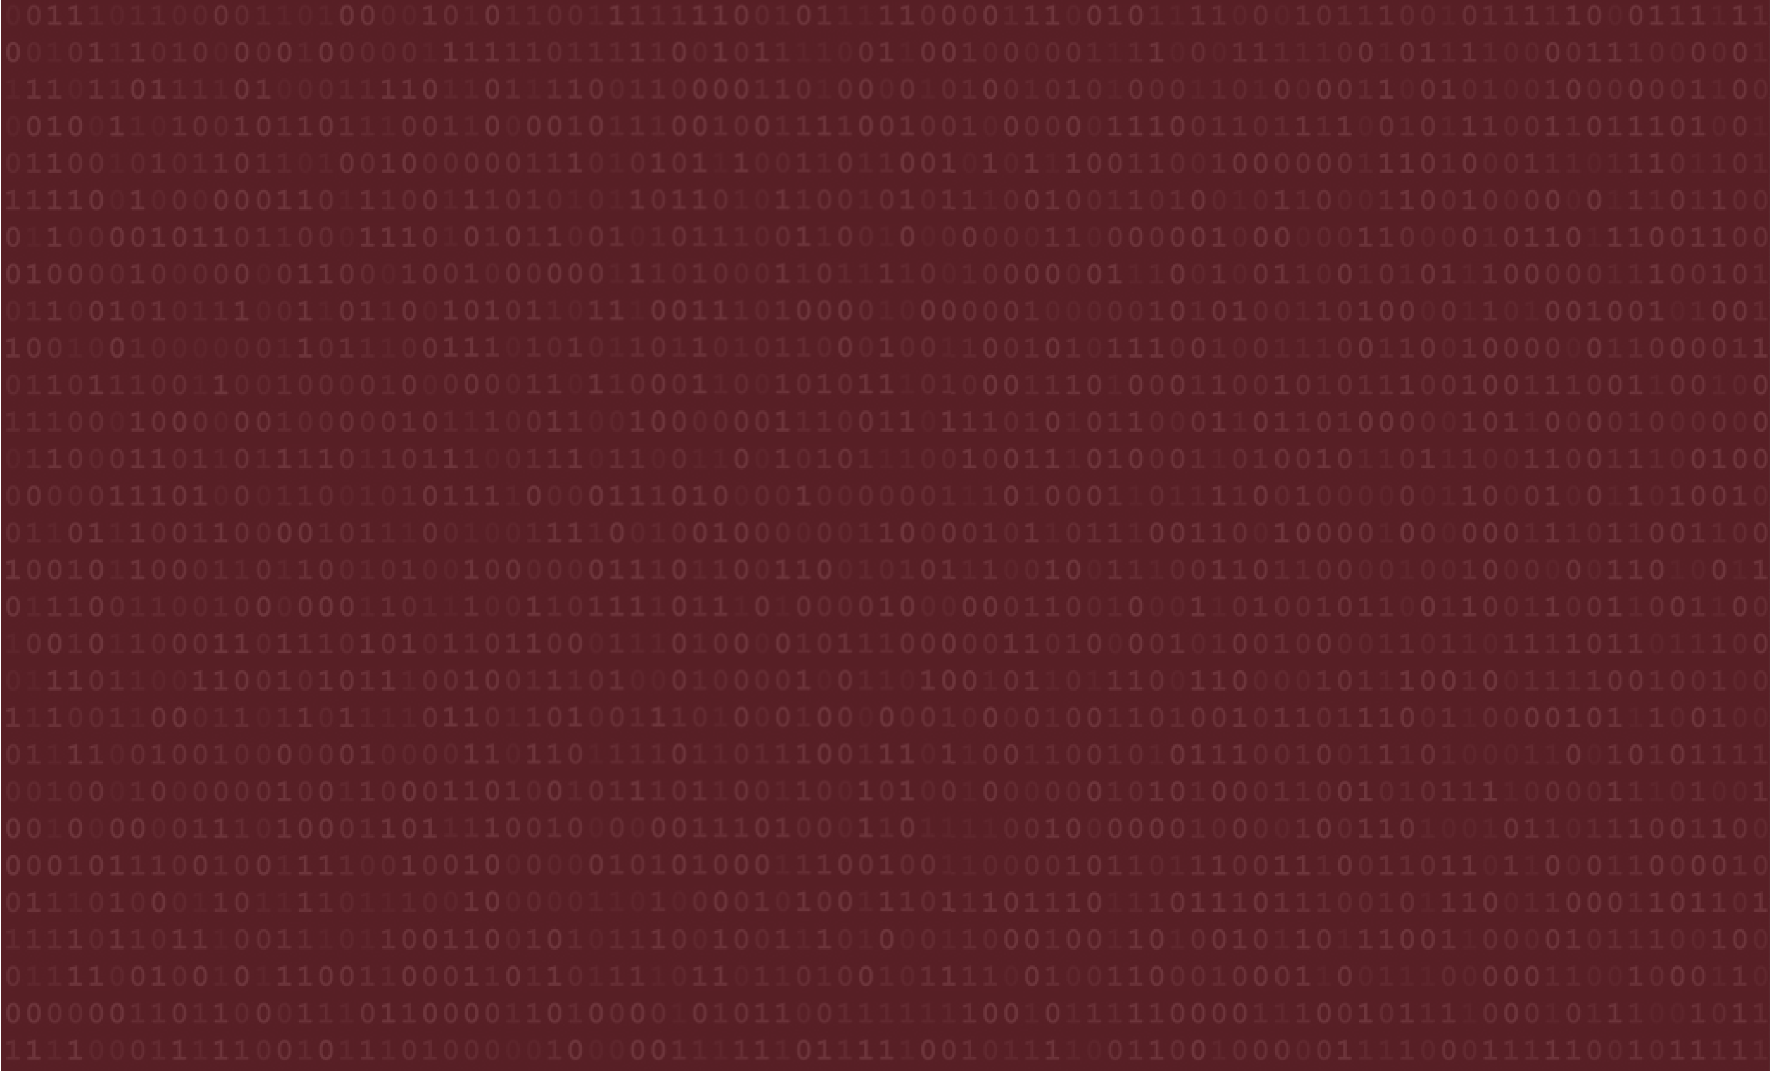
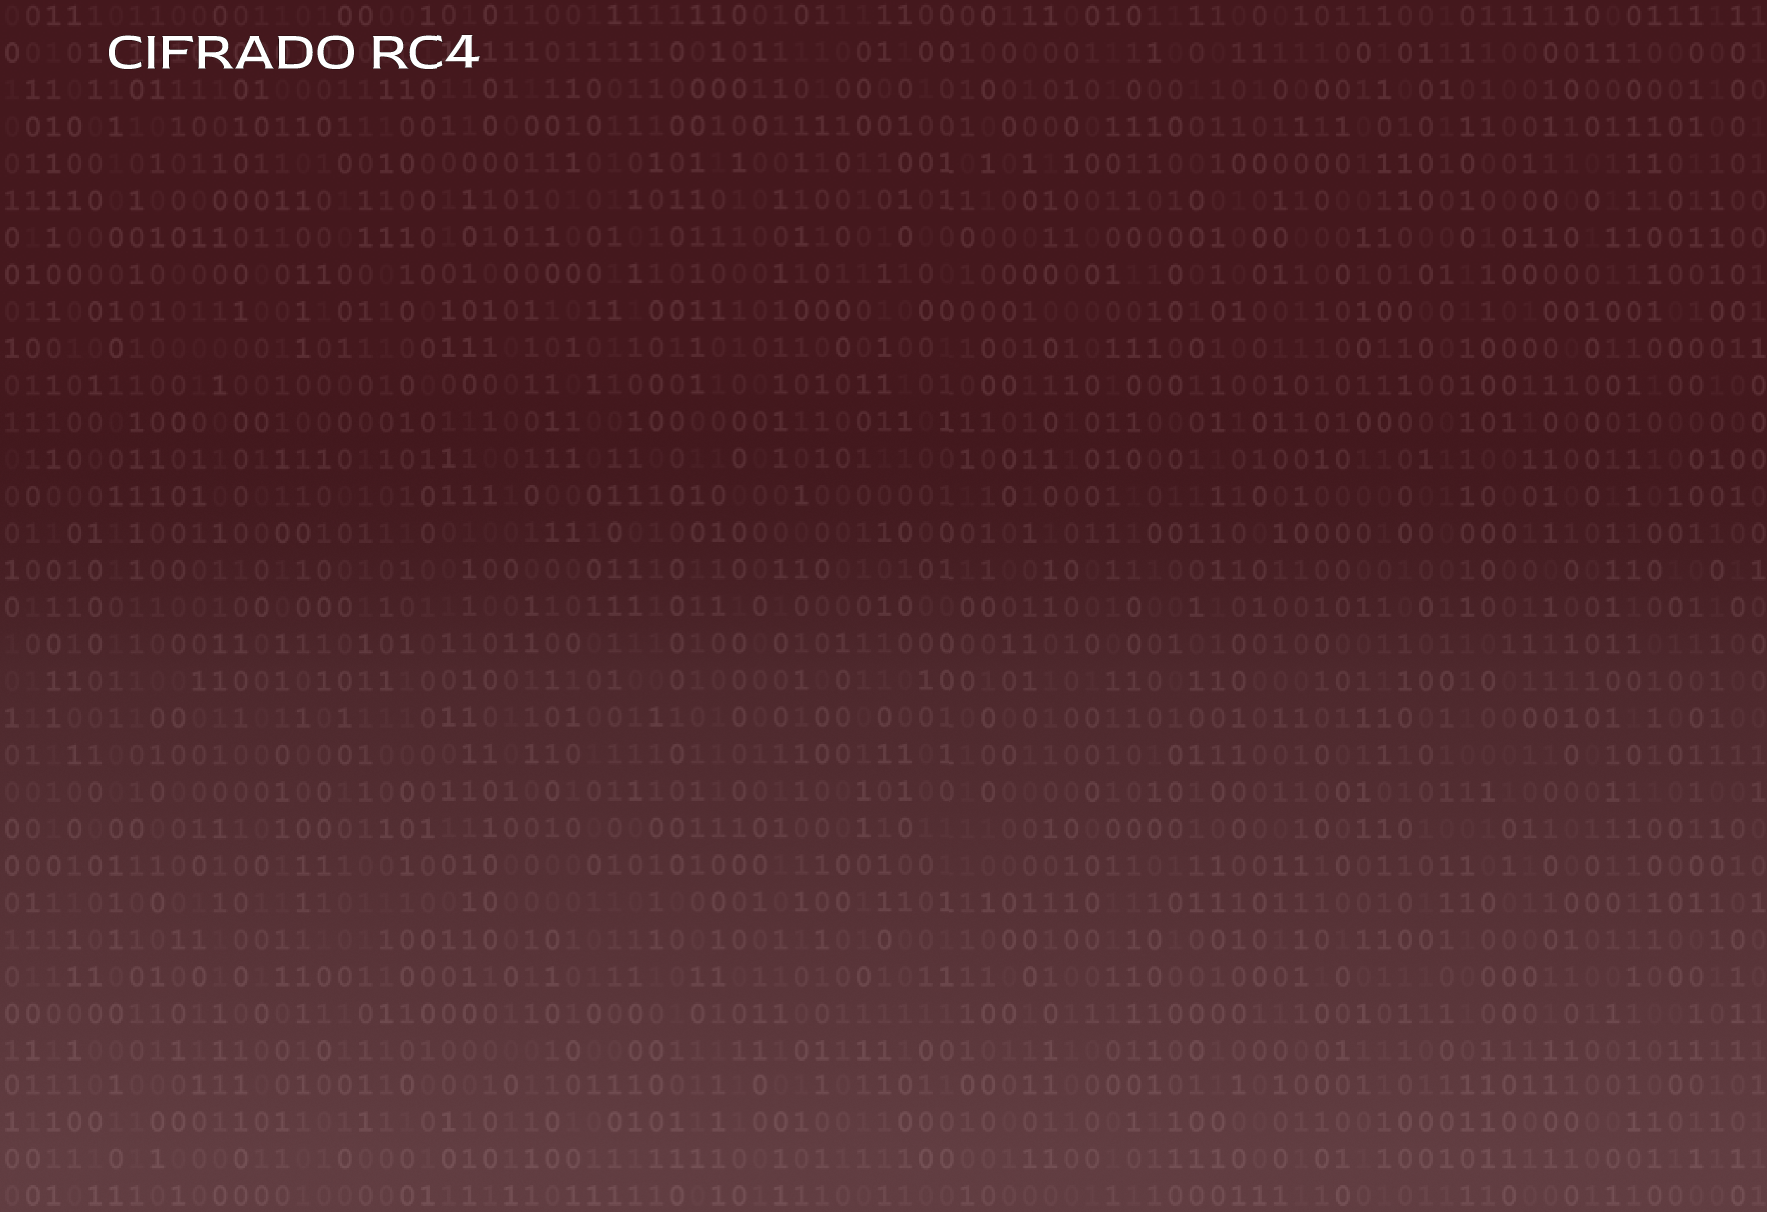
Add files via upload

diff --git a/index.html b/index.html
@@ -2,7 +2,7 @@
 <html>
 
 <head>
-  <title>Encriptador Vigenere</title>
+  <title>Encriptador RC4</title>
   <link rel="stylesheet" href="rc4/style.css">
   <link href='https://fonts.googleapis.com/css?family=Red Rose' rel='stylesheet'>
 </head>

diff --git a/README.md b/README.md
@@ -1,0 +1,10 @@
+# Cifrado Vigenere
+
+Esta práctica está realizada en html, css y JavaScript.
+
+El código fuente se encuentra en la carpeta "rc4".
+
+Se puede ejecutar abriendo el archivo index.html con un navegador (chrome recomendado).
+
+También se puede probar de manera online en la siguiente página: [https://alu0101203003.github.io/cifrado_vigenere/](https://alu0101203003.github.io/cifrado_vigenere/)
+
